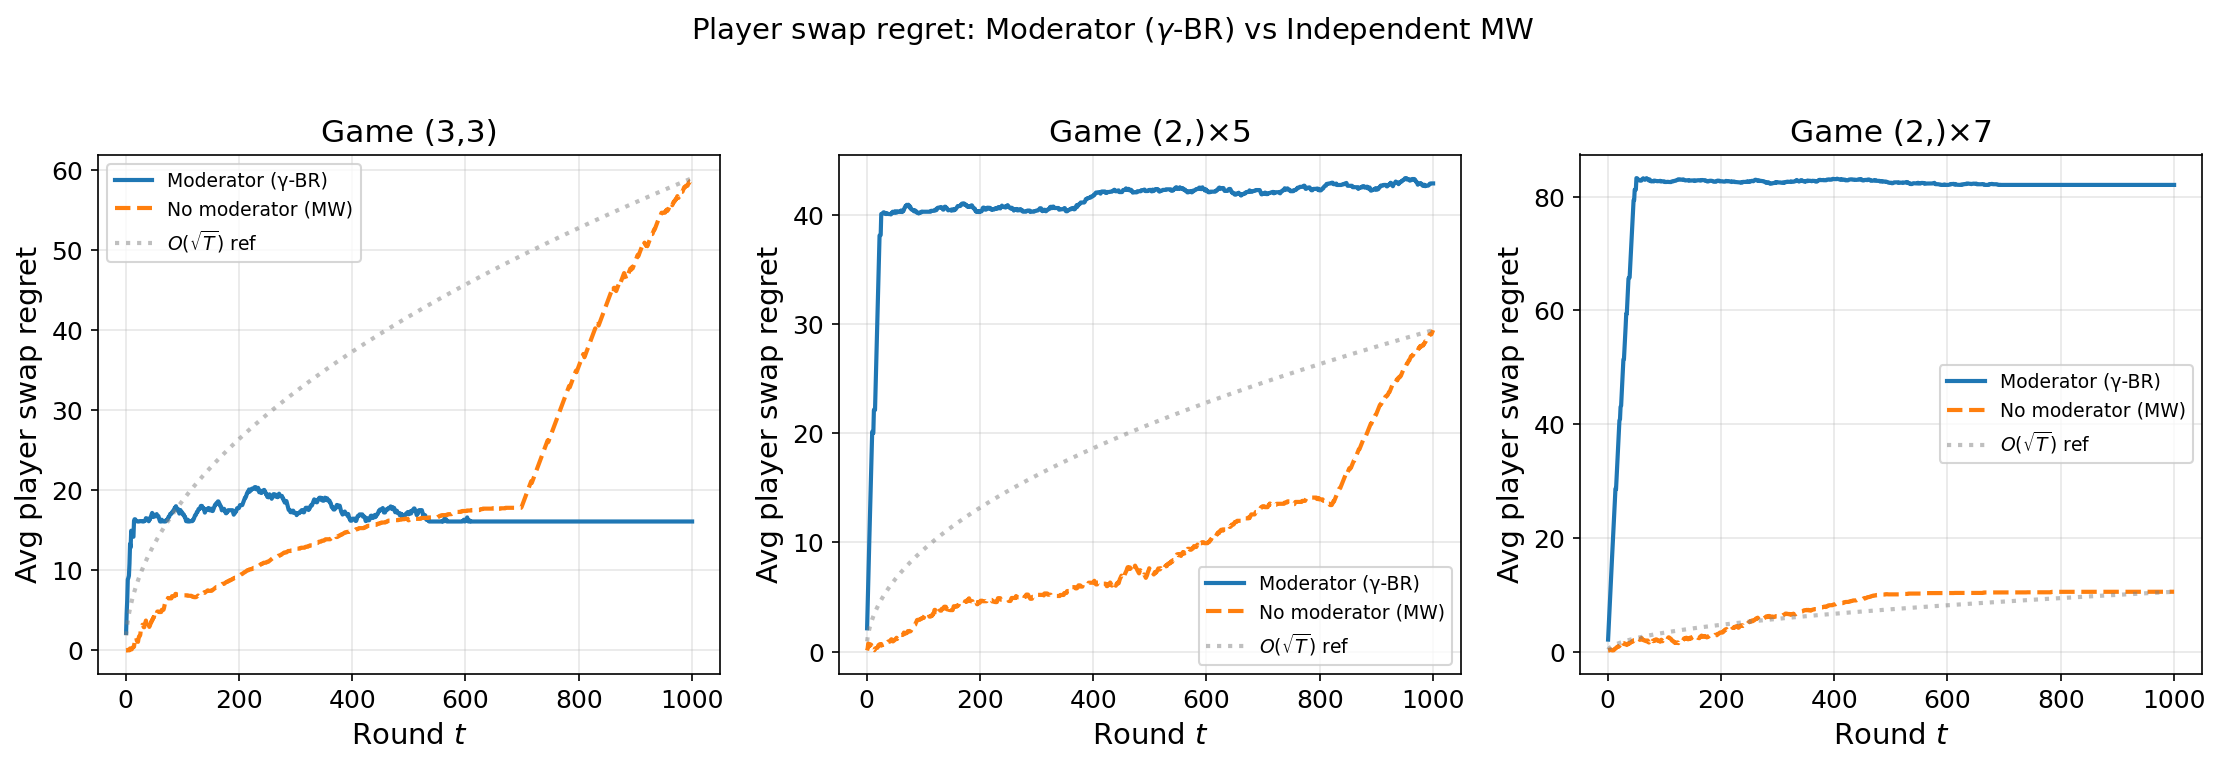
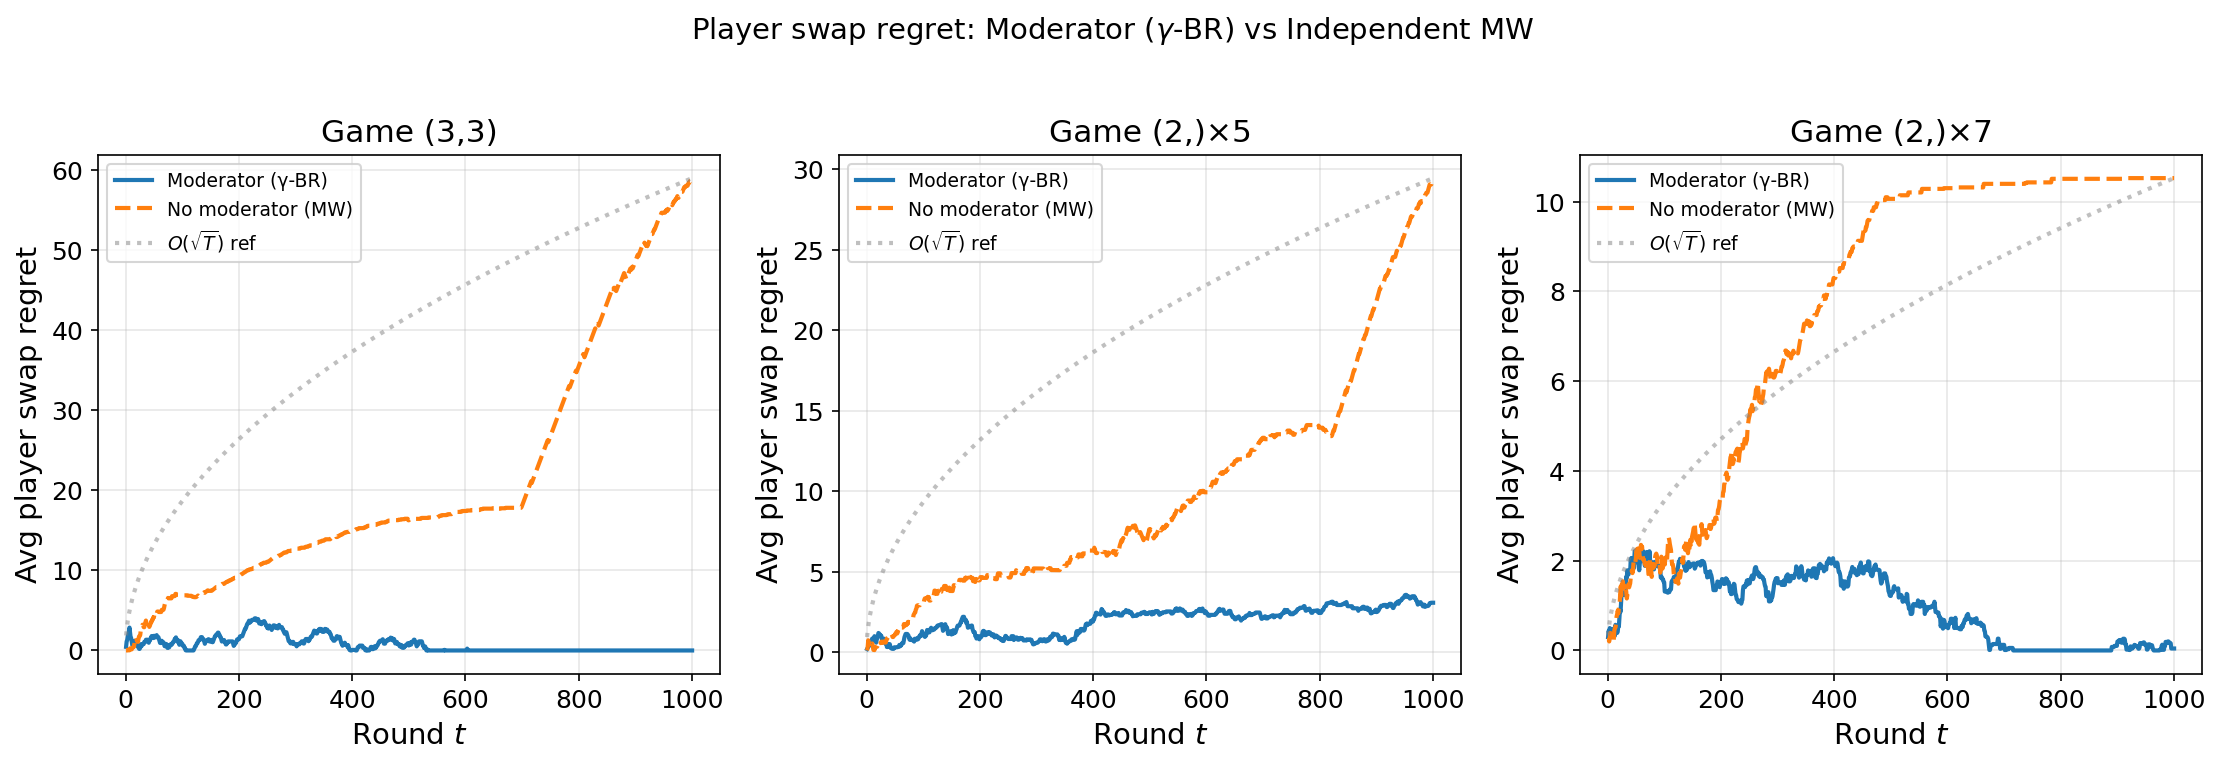
Fix swap regret: use realized actions, no artificial penalty
Swap regret now computed correctly as actual player experience.
Moderator (bounded) clearly dominates MW baseline (sqrt(T)).

diff --git a/recommend_unknown_games/cutting_plane.py b/recommend_unknown_games/cutting_plane.py
@@ -350,14 +350,12 @@ class CuttingPlaneAlgorithm:
         w = np.zeros(N)
         w_norm = float(np.linalg.norm(w_star)) if w_star is not None else 1.0
 
-        # Swap regret tracking (swap_regret_br.pdf):
-        # swap_gains[i][a][b] = sum_{t: R_i(t)=a} u_i(b, R_{-i}(t))
-        # actual_utility[i] = sum_t u_i(R(t))
-        # deviation_penalty = 2 * #{rounds where any agent deviated}
+        # Swap regret tracking:
+        # swap_gains[i][a][b] = sum_{t: A_i(t)=a} u_i(b, A_{-i}(t))
+        # actual_utility[i] = sum_t u_i(A(t))
         swap_gains = [[np.zeros(action_counts[i]) for _ in range(action_counts[i])]
                       for i in range(n)]
         actual_utility = [0.0 for _ in range(n)]
-        deviation_penalty = 0.0
         player_swap_regret = np.zeros((T, n))
 
         n_deviations = 0
@@ -389,45 +387,35 @@ class CuttingPlaneAlgorithm:
                 result = self.oracle.query(w)
             t_oracle += perf_counter() - t0
 
-            # --- Swap regret tracking (following swap_regret_br.pdf) ---
-            # The swap regret bound decomposes into:
-            #   (I)  recommendation swap regret: uses R(t) (recommendations)
-            #   (II) deviation penalty: 2 * Pr(A(t) != R(t))
+            # --- Swap regret tracking ---
+            # Swap regret of player i (eq. 1 of swap_regret_br.pdf):
+            #   R_i = max_psi sum_t [u_i(psi(A_i(t)), A_{-i}(t)) - u_i(A_i(t), A_{-i}(t))]
             #
-            # For compliant agents under γ-BR, A_i(t) = R_i(t).
-            # The relevant a_{-i} is R_{-i}(t) (the joint recommendation),
-            # NOT the realized actions (which include deviations).
+            # Use the REALIZED action profile A(t):
+            #   - A_i(t) = R_i(t) for compliant agents (γ-BR)
+            #   - A_j(t) = response of agent j (may deviate)
             #
-            # This matches eq (1) of the document where expectation is
-            # over R(t) ~ x(t).
+            # This is the actual swap regret experienced by the players.
 
-            rec = result.recommendation   # R(t): what was recommended
-            resp = result.response        # A(t): what was actually played
+            realized = result.response   # A(t): what was actually played
             game = self.oracle.game
 
             for i in range(n):
-                r_i = rec[i]  # recommended action for agent i
-                # Swap gains use the RECOMMENDATION profile R(t)
+                a_i = realized[i]
                 for b in range(action_counts[i]):
-                    profile = list(rec)
+                    profile = list(realized)
                     profile[i] = b
                     u_b = game.utilities[i][tuple(profile)]
-                    swap_gains[i][r_i][b] += u_b
+                    swap_gains[i][a_i][b] += u_b
 
-                u_rec = game.utilities[i][tuple(rec)]
-                actual_utility[i] += u_rec
+                u_actual = game.utilities[i][tuple(realized)]
+                actual_utility[i] += u_actual
 
-            # Deviation penalty: 2 per round where any agent deviated
-            if result.deviated:
-                deviation_penalty += 2.0
-
-            # Per-player swap regret at time t:
-            # R_i = sum_a max_b swap_gains[i][a][b] - actual_utility[i]
-            #        + deviation_penalty  (term II from the document)
+            # Per-player swap regret at time t
             for i in range(n):
                 sr = sum(np.max(swap_gains[i][a]) for a in range(action_counts[i])) \
                      - actual_utility[i]
-                player_swap_regret[t, i] = max(sr, 0.0) + deviation_penalty
+                player_swap_regret[t, i] = max(sr, 0.0)
 
             # --- Process result ---
             if result.deviated:
